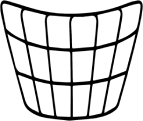
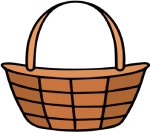
Updated sprites

diff --git a/core/src/com/whatstherecipe/game/components/InstructionsView.java b/core/src/com/whatstherecipe/game/components/InstructionsView.java
@@ -48,13 +48,13 @@ public class InstructionsView {
     }
 
     private void initPaper() {
-        if (this.game.assets.isLoaded("paper.png")) {
-            Texture paperTexture = this.game.assets.get("paper.png", Texture.class);
+        if (this.game.assets.isLoaded("how-to-play-book.png")) {
+            Texture paperTexture = this.game.assets.get("how-to-play-book.png", Texture.class);
 
             this.paper = new Image(paperTexture);
             this.paper.setOrigin(Align.center);
-            this.paper.setWidth((float) (paper.getWidth() / 1.25));
-            this.paper.setHeight((float) (paper.getHeight() / 1.25));
+            this.paper.setWidth((float) (paper.getWidth()));
+            this.paper.setHeight((float) (paper.getHeight()));
             this.paper.setPosition((this.game.V_WIDTH / 2) - (paper.getWidth() / 2), -paper.getHeight());
             this.stage.addActor(this.paper);
         }

diff --git a/core/src/com/whatstherecipe/game/screens/KitchenScreen.java b/core/src/com/whatstherecipe/game/screens/KitchenScreen.java
@@ -201,15 +201,14 @@ public class KitchenScreen implements Screen {
 
         this.tableRoot.setFillParent(true);
         this.stage.addActor(tableRoot);
-        // this.stage.addListener(new InputListener() {
-        // @Override
-        // public boolean touchDown(InputEvent event, float x, float y, int pointer, int
-        // button) {
-        // System.out.print("x: " + x + ", y: " + y + "\n");
+        this.stage.addListener(new InputListener() {
+            @Override
+            public boolean touchDown(InputEvent event, float x, float y, int pointer, int button) {
+                System.out.print("x: " + x + ", y: " + y + "\n");
 
-        // return true;
-        // }
-        // });
+                return true;
+            }
+        });
     }
 
     private void renderKitchenBg() {

diff --git a/core/src/com/whatstherecipe/game/WhatsTheRecipe.java b/core/src/com/whatstherecipe/game/WhatsTheRecipe.java
@@ -65,6 +65,7 @@ public class WhatsTheRecipe extends Game {
 		this.assets.load("open-cabinet-4.jpg", Texture.class);
 		this.assets.load("open-cabinet-4.jpg", Texture.class);
 		this.assets.load("basket.png", Texture.class);
+		this.assets.load("how-to-play-book.png", Texture.class);
 
 		for (int i = 0; i < Ingredients.ingredientsList.length; i++) {
 			for (int j = 0; j < Ingredients.ingredientsList[i].length; j++) {
